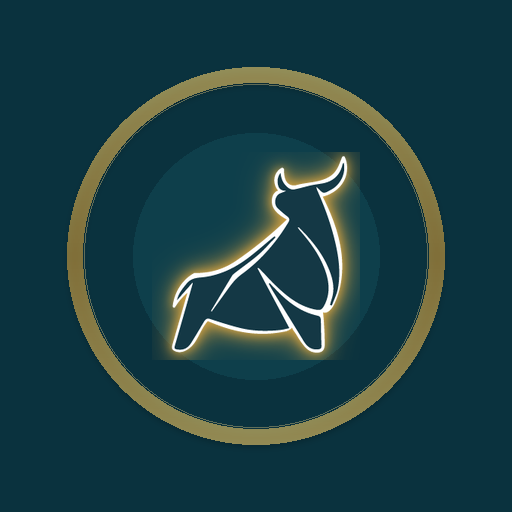
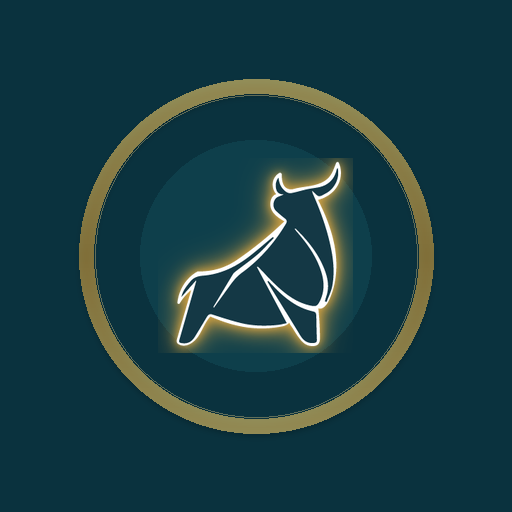
pwa: tighten maskable padding 80%→75% so no OEM crop reaches the ring
W3C minimum safe-zone is 80%, but Android adaptive-icon shapes vary
across OEMs (Pixel circle, Samsung squircle, Xiaomi rounded-square)
and a 10% margin can still clip the ring's outermost rim on the
tightest masks. Padding bumped to 12.5% on each side via 0.80 → 0.75
scale in _maskable() so every real-world OS mask absorbs cleanly.

Regular non-maskable icons unchanged. Cache-bust v=16 → v=17.

Changed region(s): [[0.125, 0.125, 0.875, 0.875], [0.3125, 0.4688, 0.5312, 0.7188]]

diff --git a/frontend/src/app.html b/frontend/src/app.html
@@ -4,12 +4,12 @@
     <meta charset="utf-8" />
     <meta name="viewport" content="width=device-width, initial-scale=1" />
     <!-- Site-wide favicon: teal face, inset 3D gold ring, teal bull.
-         ?v=16 cache-busts the icons so browsers + installed PWAs re-fetch
+         ?v=17 cache-busts the icons so browsers + installed PWAs re-fetch
          after the May 2026 brand redesign (was amber bull / navy face). -->
-    <link rel="icon" type="image/svg+xml" href="%sveltekit.assets%/public-favicon.svg?v=16" />
-    <link rel="alternate icon" href="%sveltekit.assets%/favicon.ico?v=16" />
-    <link rel="alternate icon" href="%sveltekit.assets%/favicon.png?v=16" />
-    <link rel="manifest" href="%sveltekit.assets%/manifest.webmanifest?v=16" />
+    <link rel="icon" type="image/svg+xml" href="%sveltekit.assets%/public-favicon.svg?v=17" />
+    <link rel="alternate icon" href="%sveltekit.assets%/favicon.ico?v=17" />
+    <link rel="alternate icon" href="%sveltekit.assets%/favicon.png?v=17" />
+    <link rel="manifest" href="%sveltekit.assets%/manifest.webmanifest?v=17" />
 
     <!-- SEO & Metadata for RamboQuant Analytics LLP -->
     <title>RamboQuant Analytics</title>
@@ -63,7 +63,7 @@
     <meta name="theme-color" content="#0a2030" />
 
     <!-- apple-touch-icon explicit version pin so iOS re-fetches when icons change -->
-    <link rel="apple-touch-icon" sizes="192x192" href="%sveltekit.assets%/apple-touch-icon.png?v=16" />
+    <link rel="apple-touch-icon" sizes="192x192" href="%sveltekit.assets%/apple-touch-icon.png?v=17" />
 
     %sveltekit.head%
   </head>

diff --git a/scripts/build_app_icons.py b/scripts/build_app_icons.py
@@ -140,10 +140,11 @@ def _maskable(size: int, source: Image.Image) -> Image.Image:
     """Maskable PWA icon — W3C spec says the OS may crop a circle of
     radius 40% of the icon's min dimension, so all visible content must
     sit inside the centre 80% safe zone. We render the full design at
-    80% of the target size and paste it onto a navy canvas; any crop
-    the OS applies stays inside the navy margin and the ring + bull
-    survive intact."""
-    inner_size = int(round(size * 0.80))
+    75% of the target size (slightly more conservative than the spec
+    minimum) and paste it onto a teal-navy canvas; this absorbs every
+    real-world adaptive-icon mask shape — Chrome's circle, Android's
+    squircles, OEM rounded-squares — without clipping the ring or bull."""
+    inner_size = int(round(size * 0.75))
     inner = build(inner_size, source)
     canvas = Image.new("RGBA", (size, size), NAVY)
     offset = (size - inner_size) // 2